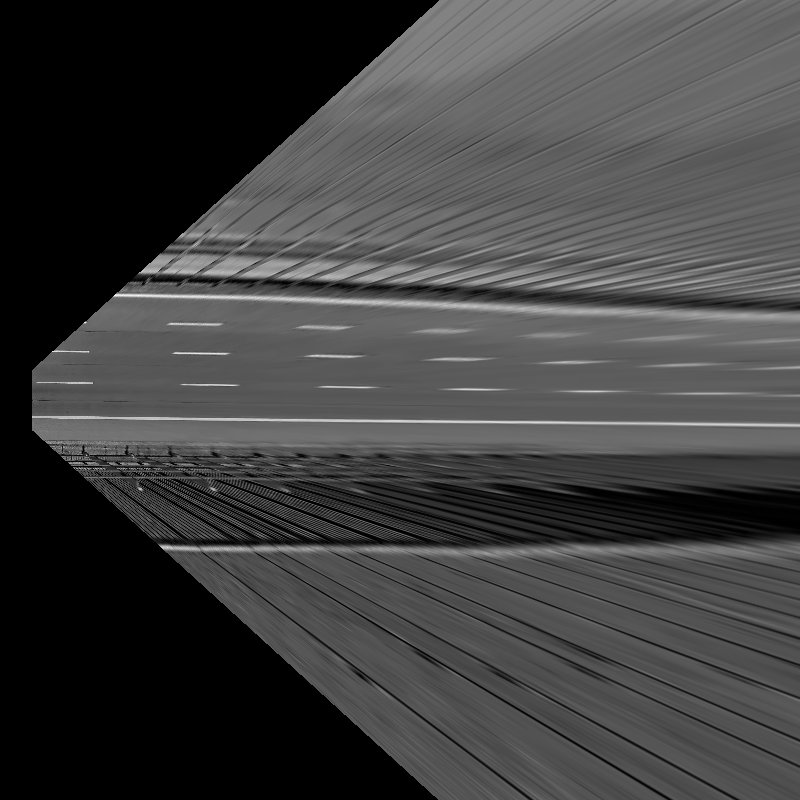
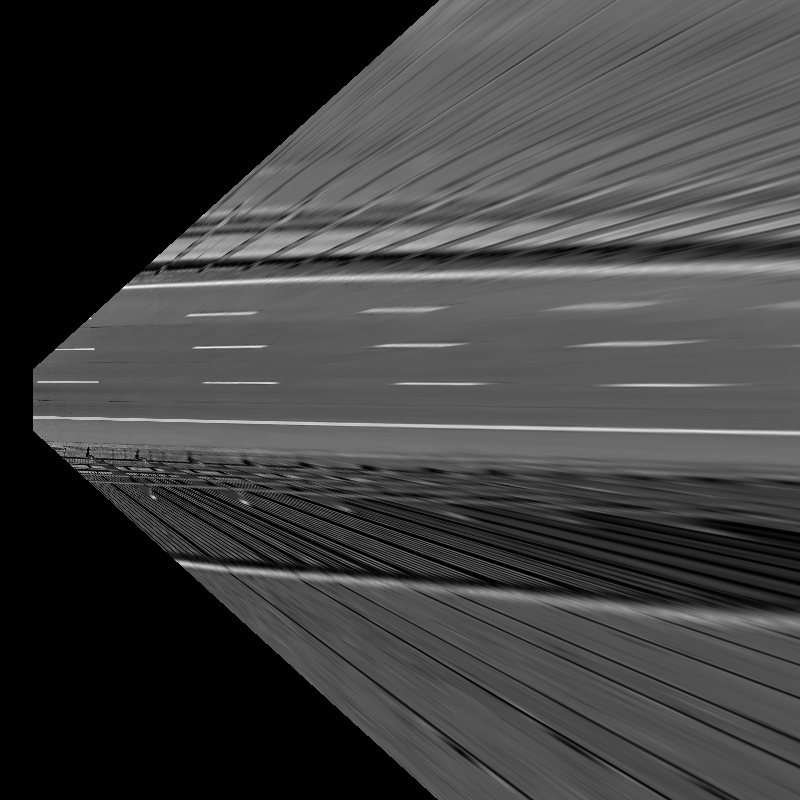
distance between lines calculated

diff --git a/ipm.py b/ipm.py
@@ -71,6 +71,7 @@ def get_lines():
     canny_out = cv2.Canny(blur_gray, low_threshold, high_threshold)
     cv2.imwrite('canny_out.png',canny_out)
     
+    #get lines
     lines = cv2.HoughLines(canny_out, 1, np.pi / 180, 250)
     for line in lines:
         rho,theta = line[0]
@@ -87,6 +88,7 @@ def get_lines():
         cv2.line(threshold_filter_gray, (x1, y1), (x2, y2), (255, 0, 0), 1)
         print("x1: " + str(x1) + "\ty1:" + str(y1)+ "\tx2:" + str(x2)+ "\ty2:" + str(y2))
 
+    #find duplicate lines
     lineCount = len(det_lines)
     print("\nlineCount: " + str(lineCount))
     if(lineCount >= 2):
@@ -108,24 +110,24 @@ def get_lines():
                 j = j + 1
             i = i + 1
     
+    #remove duplicate lines
     print("rm_lines" + str(rm_lines))
     while len(rm_lines) > 0:
         det_lines.pop(rm_lines[0])
         rm_lines.pop(0)
         rm_lines = [x - 1 for x in rm_lines]
-        print("rm_lines" + str(rm_lines))        
+        print("rm_lines" + str(rm_lines))
 
-
+    #draw plot
     for i in range(len(det_lines)):
         cv2.line(threshold_filter_gray, (det_lines[i].x1, det_lines[i].y1), (det_lines[i].x2, det_lines[i].y2), (0, 0, 255), 1)
     
     cv2.namedWindow('image', cv2.WINDOW_NORMAL)
+    cv2.resizeWindow('image', 900, 900)
     cv2.imshow('image', threshold_filter_gray)
     cv2.imwrite('lines.png', threshold_filter_gray)
 
-    
     lineCount = len(det_lines)
-    print("\nlineCount 2: " + str(lineCount) + "\n")
     if(lineCount >= 2):
         i = 0
         while i<lineCount:  
@@ -134,11 +136,16 @@ def get_lines():
                 print(str(i) + " " + str(j))                
                 print(str(det_lines[i].x1) + "\t" + str(det_lines[i].y1)+ "\t" + str(det_lines[i].x2)+ "\t" + str(det_lines[i].y2))
                 print(str(det_lines[j].x1) + "\t" + str(det_lines[j].y1)+ "\t" + str(det_lines[j].x2)+ "\t" + str(det_lines[j].y2))
+                dist_start = distance(det_lines[i].x1, det_lines[i].y1, det_lines[j].x1, det_lines[j].y1)
+                dist_end = distance(det_lines[i].x2, det_lines[i].y2, det_lines[j].x2, det_lines[j].y2)
+                print("d1 " + str(dist_start))
+                print("d2 " + str(dist_end))
+                if(abs(dist_start - dist_end) < 5):
+                    return 1
                 j = j + 1
             i = i + 1
-    
     print("\n***************************************\n")
-    k = cv2.waitKey(0)
+    return 0  
 
 
 if __name__ == '__main__':
@@ -151,26 +158,20 @@ if __name__ == '__main__':
     while True:
         print("pitch: " + str(pitch))
         warp(pitch)
-        #sleep(0.1)
         filter_out_dark_pixels()
-        #sleep(0.1)
-        m = get_lines()        
-        #m.remove("")        
-        #print(m)
 
-        #if(len(m) == 2):
-            #diff = abs(list(m)[0] - list(m)[1])            
-            #print("diff : " + str(diff))
-            #if(diff_min > diff ):
-            #    diff_min = diff
-            #else:
-            #    break
-        #print()
-
+        if(get_lines() == 1):
+            cv2.waitKey(0)
+            cv2.destroyAllWindows()
+            break
+        else:
+            cv2.waitKey(0)
+        
         pitch = pitch + quanta
         json_object['pitch'] = pitch
         a_file = open("camera.json", "w")
         json.dump(json_object, a_file)
-        a_file.close()      
+        a_file.close()
 
-        #sleep(0.1)
+    print("\n\n\nexit")   
+
